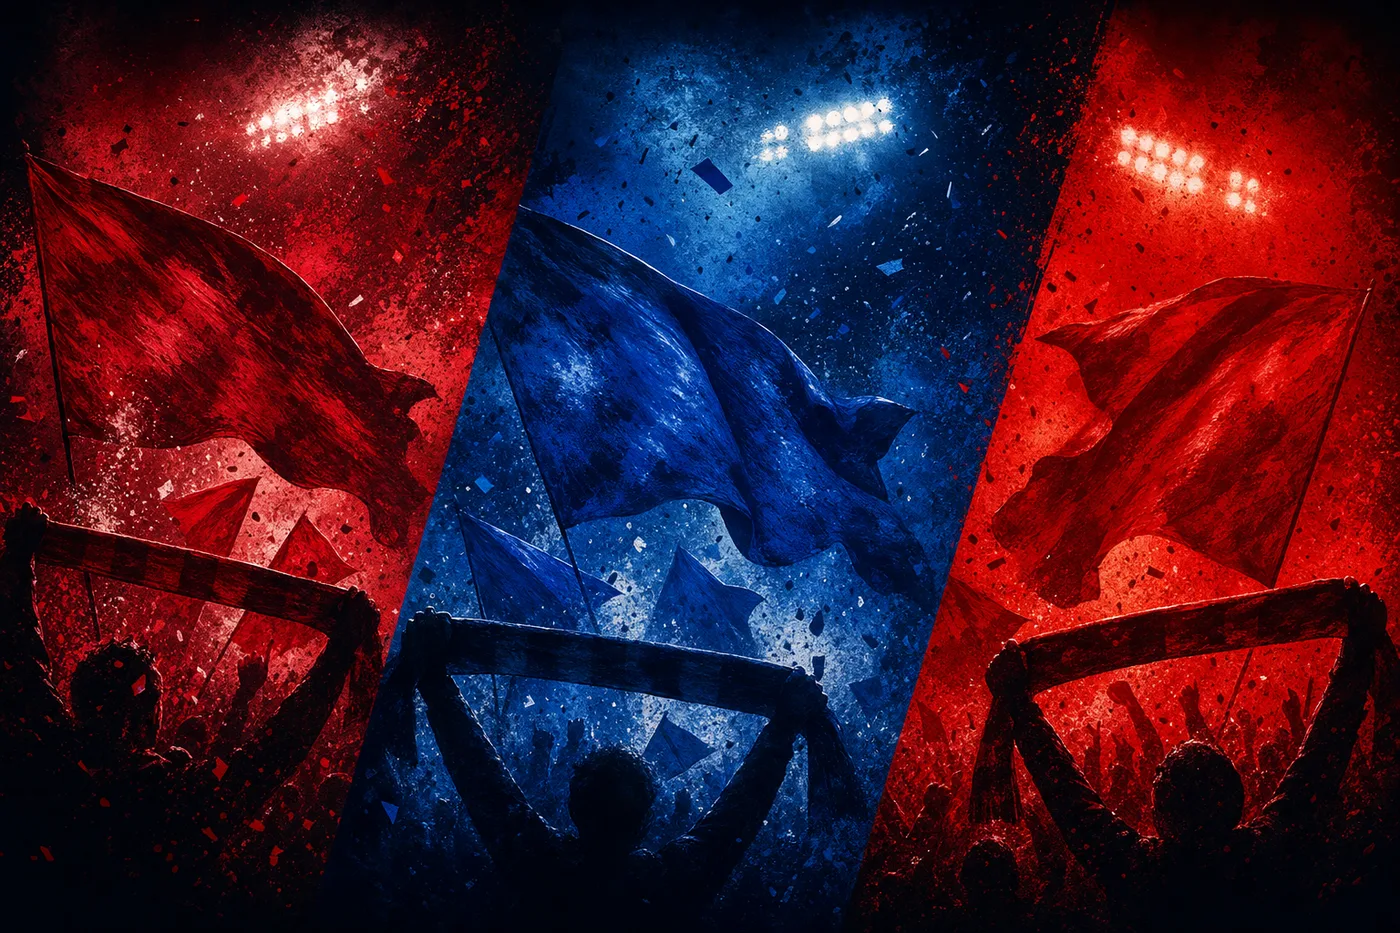
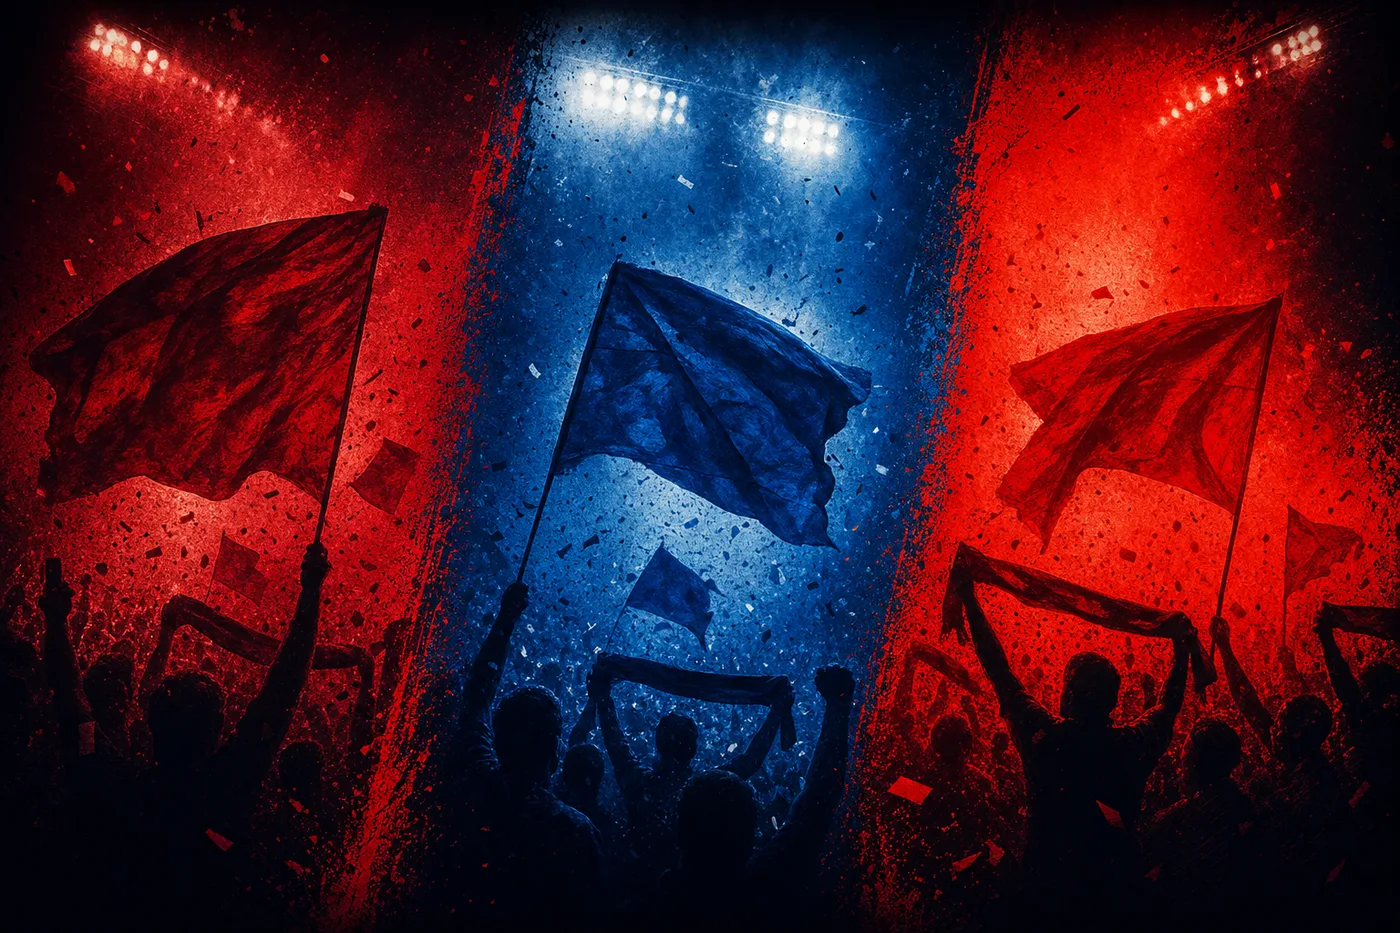
fix(design): 콜라주 3패널 균등 폭 재생성 + 크레스트 원래 크기 복구
문제의 실체는 크레스트가 아니라 콜라주 이미지의 파란(첼시) 패널이 3분의 1보다
넓게 생성돼 있던 것. 균등 3분할로 애셋 재생성(수직 경계)하고, 크레스트는
세 팀 동일 112px 로 복구, 수평 오프셋 0으로 리셋.

Claude-Session: https://claude.ai/code/session_012W2hKj1wQzVhACMS9uGMtN

diff --git a/app/season/page.tsx b/app/season/page.tsx
@@ -30,25 +30,21 @@ const CRESTS: Record<string, string> = {
   gooner: "/season/crest-arsenal.png",
 }
 
-/**
- * 히어로 크레스트 광학 보정 [기본px, lg px] — 같은 박스여도 원형(첼시)은 면적이 꽉 차
- * 방패형보다 커 보이고 옆 패널을 침범해 보인다. 원형만 한 단계 줄인다.
- */
+/** 히어로 크레스트 크기 [기본px, lg px] — 세 팀 동일 (2026-07-31 운영자 확정) */
 const CREST_HERO_PX: Record<string, [number, number]> = {
   kop: [92, 112],
-  blues: [64, 78],
-  gooner: [88, 106],
+  blues: [92, 112],
+  gooner: [92, 112],
 }
 
 /**
- * 히어로 크레스트 수평 오프셋 — 콜라주 패널 경계가 사선(/)이라 크레스트 높이에서는
- * 경계가 균등 3분할보다 오른쪽에 있다. 3등분 중앙에 그대로 두면 아스날이 첼시(파랑)
- * 영역을 침범해 보임 → 각 크레스트를 해당 색 패널의 중심으로 밀어 정렬.
+ * 히어로 크레스트 수평 오프셋 — 콜라주 패널이 사선이라 필요 시 색 패널 중심으로
+ * 미세 정렬. 균등 3분할 애셋(2026-07-31 재생성) 기준 기본 0.
  */
 const CREST_HERO_SHIFT: Record<string, number> = {
-  kop: -6,
-  blues: 4,
-  gooner: 22,
+  kop: 0,
+  blues: 0,
+  gooner: 0,
 }
 
 /** 어그로체 디스플레이 — 매치데이 밴드와 동일 (이미 Bold 라 font-weight 얹지 말 것) */

diff --git a/components/season/team-picker.tsx b/components/season/team-picker.tsx
@@ -113,8 +113,7 @@ export function TeamPicker({
                     <img
                       src={g.crest}
                       alt=""
-                      // 원형 크레스트(첼시)는 같은 박스에서 커 보여 한 단계 축소 (광학 보정)
-                      className={`shrink-0 object-contain ${g.slug === "blues" ? "h-8 w-8" : "h-10 w-10"}`}
+                      className="h-10 w-10 shrink-0 object-contain"
                       loading="lazy"
                     />
                   )}
